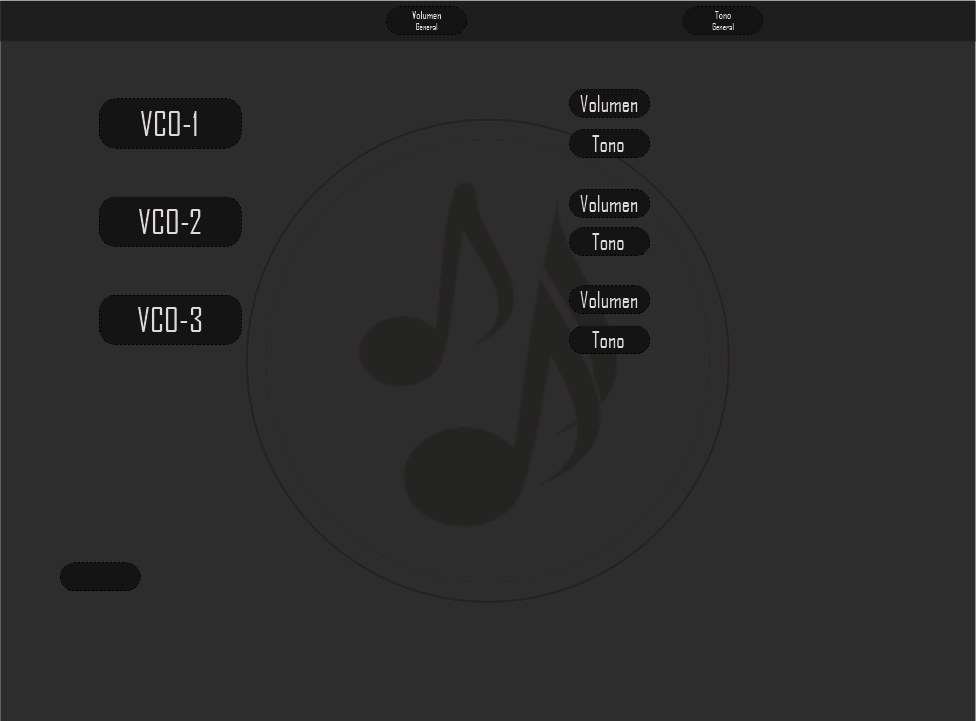
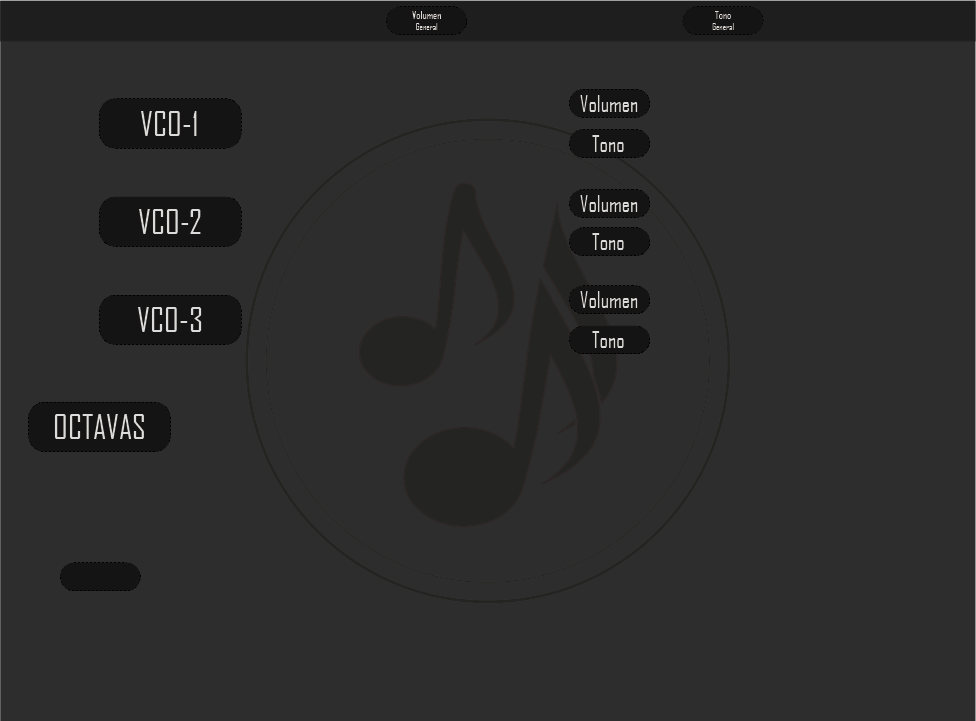
git push

Changed region(s): [[0.0307, 0.5492, 0.1844, 0.6408]]

diff --git a/DEMO/#Demo.py b/DEMO/#Demo.py
@@ -213,6 +213,8 @@ LblGVol = tkinter.Label(image= DLabelPl, relief = FLAT, borderwidth = 0)
 LblGVol.place(x = 516, y = 8)
 MsGVol = tkinter.Button(image= DMásBtt, relief = FLAT, borderwidth = 0)
 MsGVol.place(x = 636, y = 10, height = 26, width = 26)
+LblGVolT = tkinter.Label(text = "xd", bg= "#141414", fg= "white")
+LblGVolT.place(x = 563, y = 11)
 
 #TONO
 MnGTone = tkinter.Button(image= DMenosBtt, relief = FLAT, borderwidth = 0)
@@ -221,6 +223,8 @@ LblGTone = tkinter.Label(image= DLabelPl, relief = FLAT, borderwidth = 0)
 LblGTone.place(x = 811, y = 8)
 MsGTone = tkinter.Button(image= DMásBtt, relief = FLAT, borderwidth = 0)
 MsGTone.place(x = 931, y = 10, height = 26, width = 26)
+LblGToneT = tkinter.Label(text = "xd", bg= "#141414", fg= "white")
+LblGToneT.place(x = 858, y = 11)
 
 #BOTONES VCO1
 
@@ -289,9 +293,11 @@ TonemnVCO3.place(x = 700, y = 329, height = 26, width = 26)
 
 #BOTONES OCTAVA ACTUAL
 Aumento = tkinter.Button(image = MásBttbig, command= lambda: piano.octavab(1), relief = FLAT, borderwidth = 0)
-Aumento.place(x = 84, y = 510, height = 37, width = 37)
+Aumento.place(x = (81.5), y = 510, height = 37, width = 37)
 Dismin = tkinter.Button(image = MenosBttbig, command= lambda: piano.octavab(-1), relief = FLAT, borderwidth = 0)
-Dismin.place(x = 84, y = 610, height = 37, width = 37)
+Dismin.place(x = (81.5), y = 610, height = 37, width = 37)
+OcvtLbl = tkinter.Label(text = "xd", bg= "#141414", fg= "white")
+OcvtLbl.place(x = (92), y = 567)
 
 #BOTONES PIANO
 #OCTAVA 1
